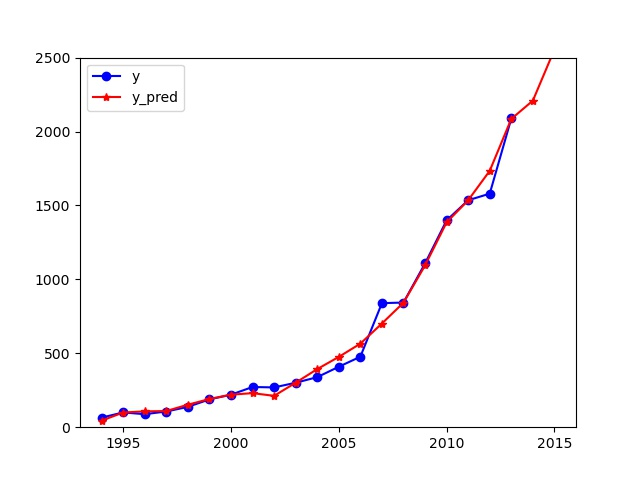
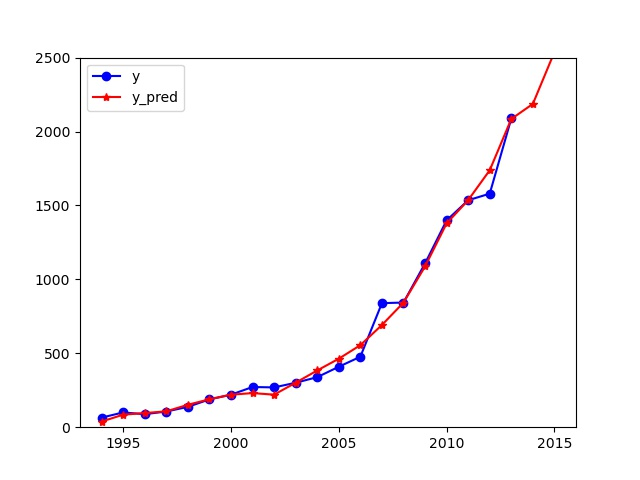
yes

diff --git a/SVR.py b/SVR.py
@@ -5,7 +5,7 @@ import matplotlib.pyplot as plt
 inputfile = './datasave/new_reg_data_GM11.csv'  # 灰色预测后保存的路径
 data = pd.read_csv(inputfile)  # 读取数据
 data.index = range(1994, 2016)
-feature = ['x1', 'x4', 'x5', 'x6', 'x7', 'x8']
+feature = ['x1', 'x3','x4', 'x5', 'x6', 'x7', 'x8','x13']
 data_train = data.loc[range(1994, 2014)].copy()  # 取2014年前的数据建模
 data_mean = data_train.mean()
 data_std = data_train.std()
@@ -17,7 +17,7 @@ linearsvr = LinearSVR()  # 调用LinearSVR()函数
 linearsvr.fit(x_train, y_train)
 x = ((data[feature] - data_mean[feature]) /
      data_std[feature]).values  # 预测，并还原结果。
-data[u'y_pred'] = linearsvr.predict(x) * data_std['y'] + data_mean['y']
+data['y_pred'] = linearsvr.predict(x) * data_std['y'] + data_mean['y']
 # SVR预测后保存的结果
 outputfile = './datasave/new_reg_data_GM11_revenue.csv'
 data.to_csv(outputfile)
